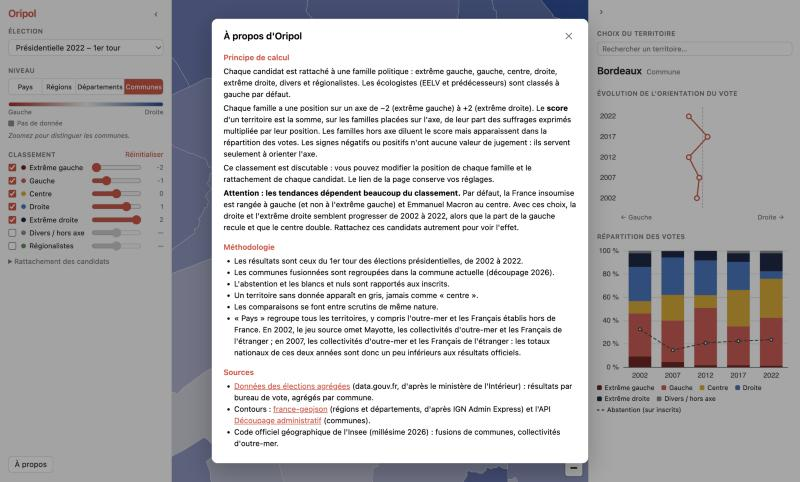
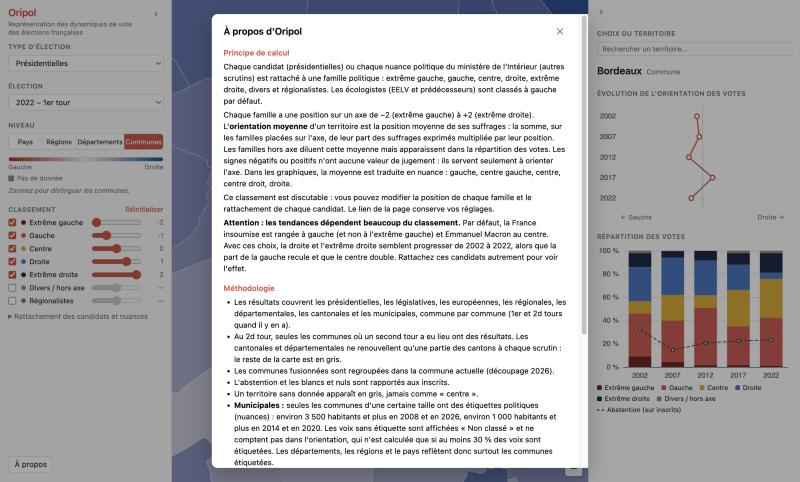
feat: Orientation moyenne wording, tagline under the title, validated nuance mappings, refreshed README and screenshots

diff --git a/web/src/lib/components/TerritoryPanel.svelte b/web/src/lib/components/TerritoryPanel.svelte
@@ -93,7 +93,7 @@
 					formatter: (params: { dataIndex: number }[]) => {
 						const p = points[params[0].dataIndex];
 						const line =
-							p.status === 'ok' && p.score !== null ? `Orientation : ${orientationLabel(p.score)}` : '';
+							p.status === 'ok' && p.score !== null ? `Orientation moyenne : ${orientationLabel(p.score)}` : '';
 						return tooltipHeader(p) + (line ? `<div>${line}</div>` : '') + note(p);
 					}
 				},
@@ -110,7 +110,7 @@
 				yAxis: { type: 'category', data: years, inverse: true, axisTick: { show: false }, axisLine: { show: false } },
 				series: [
 					{
-						name: 'Orientation',
+						name: 'Orientation moyenne',
 						type: 'line',
 						symbolSize: 8,
 						itemStyle: { color: '#db4c3f' },
@@ -136,7 +136,7 @@
 					},
 					{
 						// résultat sans orientation calculable (peu de voix étiquetées) : cercle gris creux
-						name: 'Orientation non calculée',
+						name: 'Orientation moyenne non calculée',
 						type: 'scatter',
 						symbol: 'circle',
 						symbolSize: 8,
@@ -224,7 +224,7 @@
 	{#if hasAbsent || hasUnscored}
 		<ul class="marks">
 			{#if hasAbsent}<li><span class="cross">×</span>Pas de résultat à ce scrutin (par exemple : élection pliée au premier tour)</li>{/if}
-			{#if hasUnscored}<li><span class="ring"></span>Orientation non calculée (peu de voix étiquetées)</li>{/if}
+			{#if hasUnscored}<li><span class="ring"></span>Orientation moyenne non calculée (peu de voix étiquetées)</li>{/if}
 		</ul>
 	{/if}
 

diff --git a/web/src/lib/components/AboutModal.svelte b/web/src/lib/components/AboutModal.svelte
@@ -25,11 +25,12 @@
 				gauche par défaut.
 			</p>
 			<p>
-				Chaque famille a une position sur un axe de −2 (extrême gauche) à +2 (extrême droite). Le
-				<strong>score</strong> d'un territoire est la somme, sur les familles placées sur l'axe, de leur part
-				des suffrages exprimés multipliée par leur position. Les familles hors axe diluent le score mais
-				apparaissent dans la répartition des votes. Les signes négatifs ou positifs n'ont aucune valeur de
-				jugement : ils servent seulement à orienter l'axe.
+				Chaque famille a une position sur un axe de −2 (extrême gauche) à +2 (extrême droite). L'<strong>orientation
+				moyenne</strong> d'un territoire est la position moyenne de ses suffrages : la somme, sur les familles placées
+				sur l'axe, de leur part des suffrages exprimés multipliée par leur position. Les familles hors axe diluent
+				cette moyenne mais apparaissent dans la répartition des votes. Les signes négatifs ou positifs n'ont aucune
+				valeur de jugement : ils servent seulement à orienter l'axe. Dans les graphiques, la moyenne est traduite en
+				nuance : gauche, centre gauche, centre, centre droit, droite.
 			</p>
 			<p>
 				Ce classement est discutable : vous pouvez modifier la position de chaque famille et le rattachement

diff --git a/web/src/routes/+page.svelte b/web/src/routes/+page.svelte
@@ -198,7 +198,10 @@
 		<aside class="left" aria-label="Réglages" inert={!leftOpen}>
 			<div class="inner">
 				<header>
-					<h1>Oripol</h1>
+					<div class="brand">
+						<h1>Oripol</h1>
+						<p class="tagline">Représentation des dynamiques de vote des élections françaises</p>
+					</div>
 					<button class="icon-btn" type="button" aria-label="Replier le panneau" onclick={() => (leftOpen = false)}>‹</button>
 				</header>
 
@@ -337,12 +340,21 @@
 	}
 	header {
 		display: flex;
-		align-items: center;
+		align-items: flex-start;
 		gap: 6px;
 		margin-bottom: 10px;
 	}
-	h1 {
+	.brand {
 		flex: 1;
+		min-width: 0;
+	}
+	.tagline {
+		margin: 1px 0 0;
+		font-size: 11px;
+		line-height: 1.3;
+		color: var(--muted);
+	}
+	h1 {
 		color: var(--accent);
 		letter-spacing: -0.01em;
 	}

diff --git a/web/src/lib/format.test.ts b/web/src/lib/format.test.ts
@@ -93,7 +93,7 @@ describe('statusLine', () => {
 	});
 	it('explains an unscored result by the share of classified votes', () => {
 		expect(flat(statusLine(point({ status: 'unscored', classified: 0.23 })) ?? '')).toBe(
-			'Orientation non calculée : seulement 23,0 % des voix ont une étiquette politique'
+			'Orientation moyenne non calculée : seulement 23,0 % des voix ont une étiquette politique'
 		);
 	});
 	it('is empty for a normal result', () => {

diff --git a/web/src/lib/format.ts b/web/src/lib/format.ts
@@ -52,7 +52,7 @@ export function statusLine(p: SeriesPoint): string | null {
 			: 'Pas de résultat pour ce territoire';
 	}
 	if (p.status === 'unscored') {
-		return `Orientation non calculée : seulement ${formatPercent(p.classified)} des voix ont une étiquette politique`;
+		return `Orientation moyenne non calculée : seulement ${formatPercent(p.classified)} des voix ont une étiquette politique`;
 	}
 	return null;
 }

diff --git a/README.md b/README.md
@@ -1,6 +1,6 @@
 # Oripol
 
-Une application web qui montre comment un territoire français (commune, département, région, pays) se déplace politiquement d'une élection à l'autre, à partir des résultats officiels.
+Représentation des dynamiques de vote des élections françaises : une application web qui montre comment un territoire français (commune, département, région, pays) se déplace politiquement d'une élection à l'autre, à partir des résultats officiels.
 
 **Lancer l'application : `./start.sh`**
 
@@ -31,15 +31,15 @@ Le classement des candidats par famille politique est proposé par défaut, mais
 
 Quand on change de niveau, la sélection suit : en passant à un niveau supérieur (par exemple d'une commune à son département), le territoire parent est sélectionné et la carte zoome dessus ; en passant à un niveau inférieur, le territoire reste affiché dans la fiche et la carte zoome sur son emprise pour montrer ses subdivisions. « Pays » revient à la vue d'ensemble à chaque clic.
 
-Dans la fiche, les années sont empilées (la plus ancienne en haut) et la courbe se place de part et d'autre de la ligne médiane : la gauche à gauche, la droite à droite. Chaque scrutin comparable garde sa date : une croix grise sur la ligne médiane (et une barre en pointillés dans la répartition) signale un scrutin sans résultat pour ce territoire, par exemple une élection pliée au premier tour ; un cercle gris creux signale une orientation non calculée faute de voix étiquetées (municipales). Les points apparaissent progressivement quand on change de territoire. L'orientation est exprimée par une nuance : gauche, centre gauche, centre, centre droit, droite. Un clic dans la mer quitte la sélection.
+Dans la fiche, les années sont empilées (la plus ancienne en haut) et la courbe se place de part et d'autre de la ligne médiane : la gauche à gauche, la droite à droite. Chaque scrutin comparable garde sa date : une croix grise sur la ligne médiane (et une barre en pointillés dans la répartition) signale un scrutin sans résultat pour ce territoire, par exemple une élection pliée au premier tour ; un cercle gris creux signale une orientation moyenne non calculée faute de voix étiquetées (municipales). Les points apparaissent progressivement quand on change de territoire. L'orientation est exprimée par une nuance : gauche, centre gauche, centre, centre droit, droite. Un clic dans la mer quitte la sélection.
 
 Les territoires d'outre-mer sont placés dans la carte elle-même, en bas à gauche de la métropole, chacun dans son cadre : Guadeloupe, Martinique, Guyane, La Réunion, Mayotte, Saint-Pierre-et-Miquelon, Saint-Barthélemy, Saint-Martin, Polynésie française, Nouvelle-Calédonie et Wallis-et-Futuna. Leur position et leur échelle sont arbitraires (c'est un encart, pas une vraie géographie). Passer la souris sur un territoire affiche son nom (« France » au niveau Pays). Les deux panneaux latéraux se replient avec les flèches `‹` et `›`.
 
-## Comprendre le score
+## Comprendre l'orientation moyenne
 
 - Chaque candidat (présidentielles) ou chaque nuance politique du ministère de l'Intérieur (législatives) est rattaché à une famille : extrême gauche, gauche, centre, droite, extrême droite, divers, régionalistes. Les écologistes (EELV et prédécesseurs) sont classés à gauche par défaut.
 - Chaque famille occupe une position sur un axe de `-2` (extrême gauche) à `+2` (extrême droite). Les signes servent seulement à orienter l'axe, ils n'ont aucune valeur de jugement.
-- Le **score** d'un territoire est la somme, sur les familles placées sur l'axe, de leur part des suffrages exprimés multipliée par leur position. Les familles hors axe (divers, régionalistes) diluent le score mais apparaissent dans la répartition des votes.
+- L'**orientation moyenne** d'un territoire (son « score ») est la position moyenne de ses suffrages : la somme, sur les familles placées sur l'axe, de leur part des suffrages exprimés multipliée par leur position. Dans les graphiques, elle est traduite en nuance : gauche, centre gauche, centre, centre droit, droite. Les familles hors axe (divers, régionalistes) diluent le score mais apparaissent dans la répartition des votes.
 - La couleur de la carte sature à `±0,6` et monte vite aux faibles écarts : un territoire fortement orienté n'a pas besoin d'atteindre `±2`, et un territoire peu orienté reste nettement coloré. Un territoire sans donnée est gris foncé.
 
 ## Ajuster le classement
